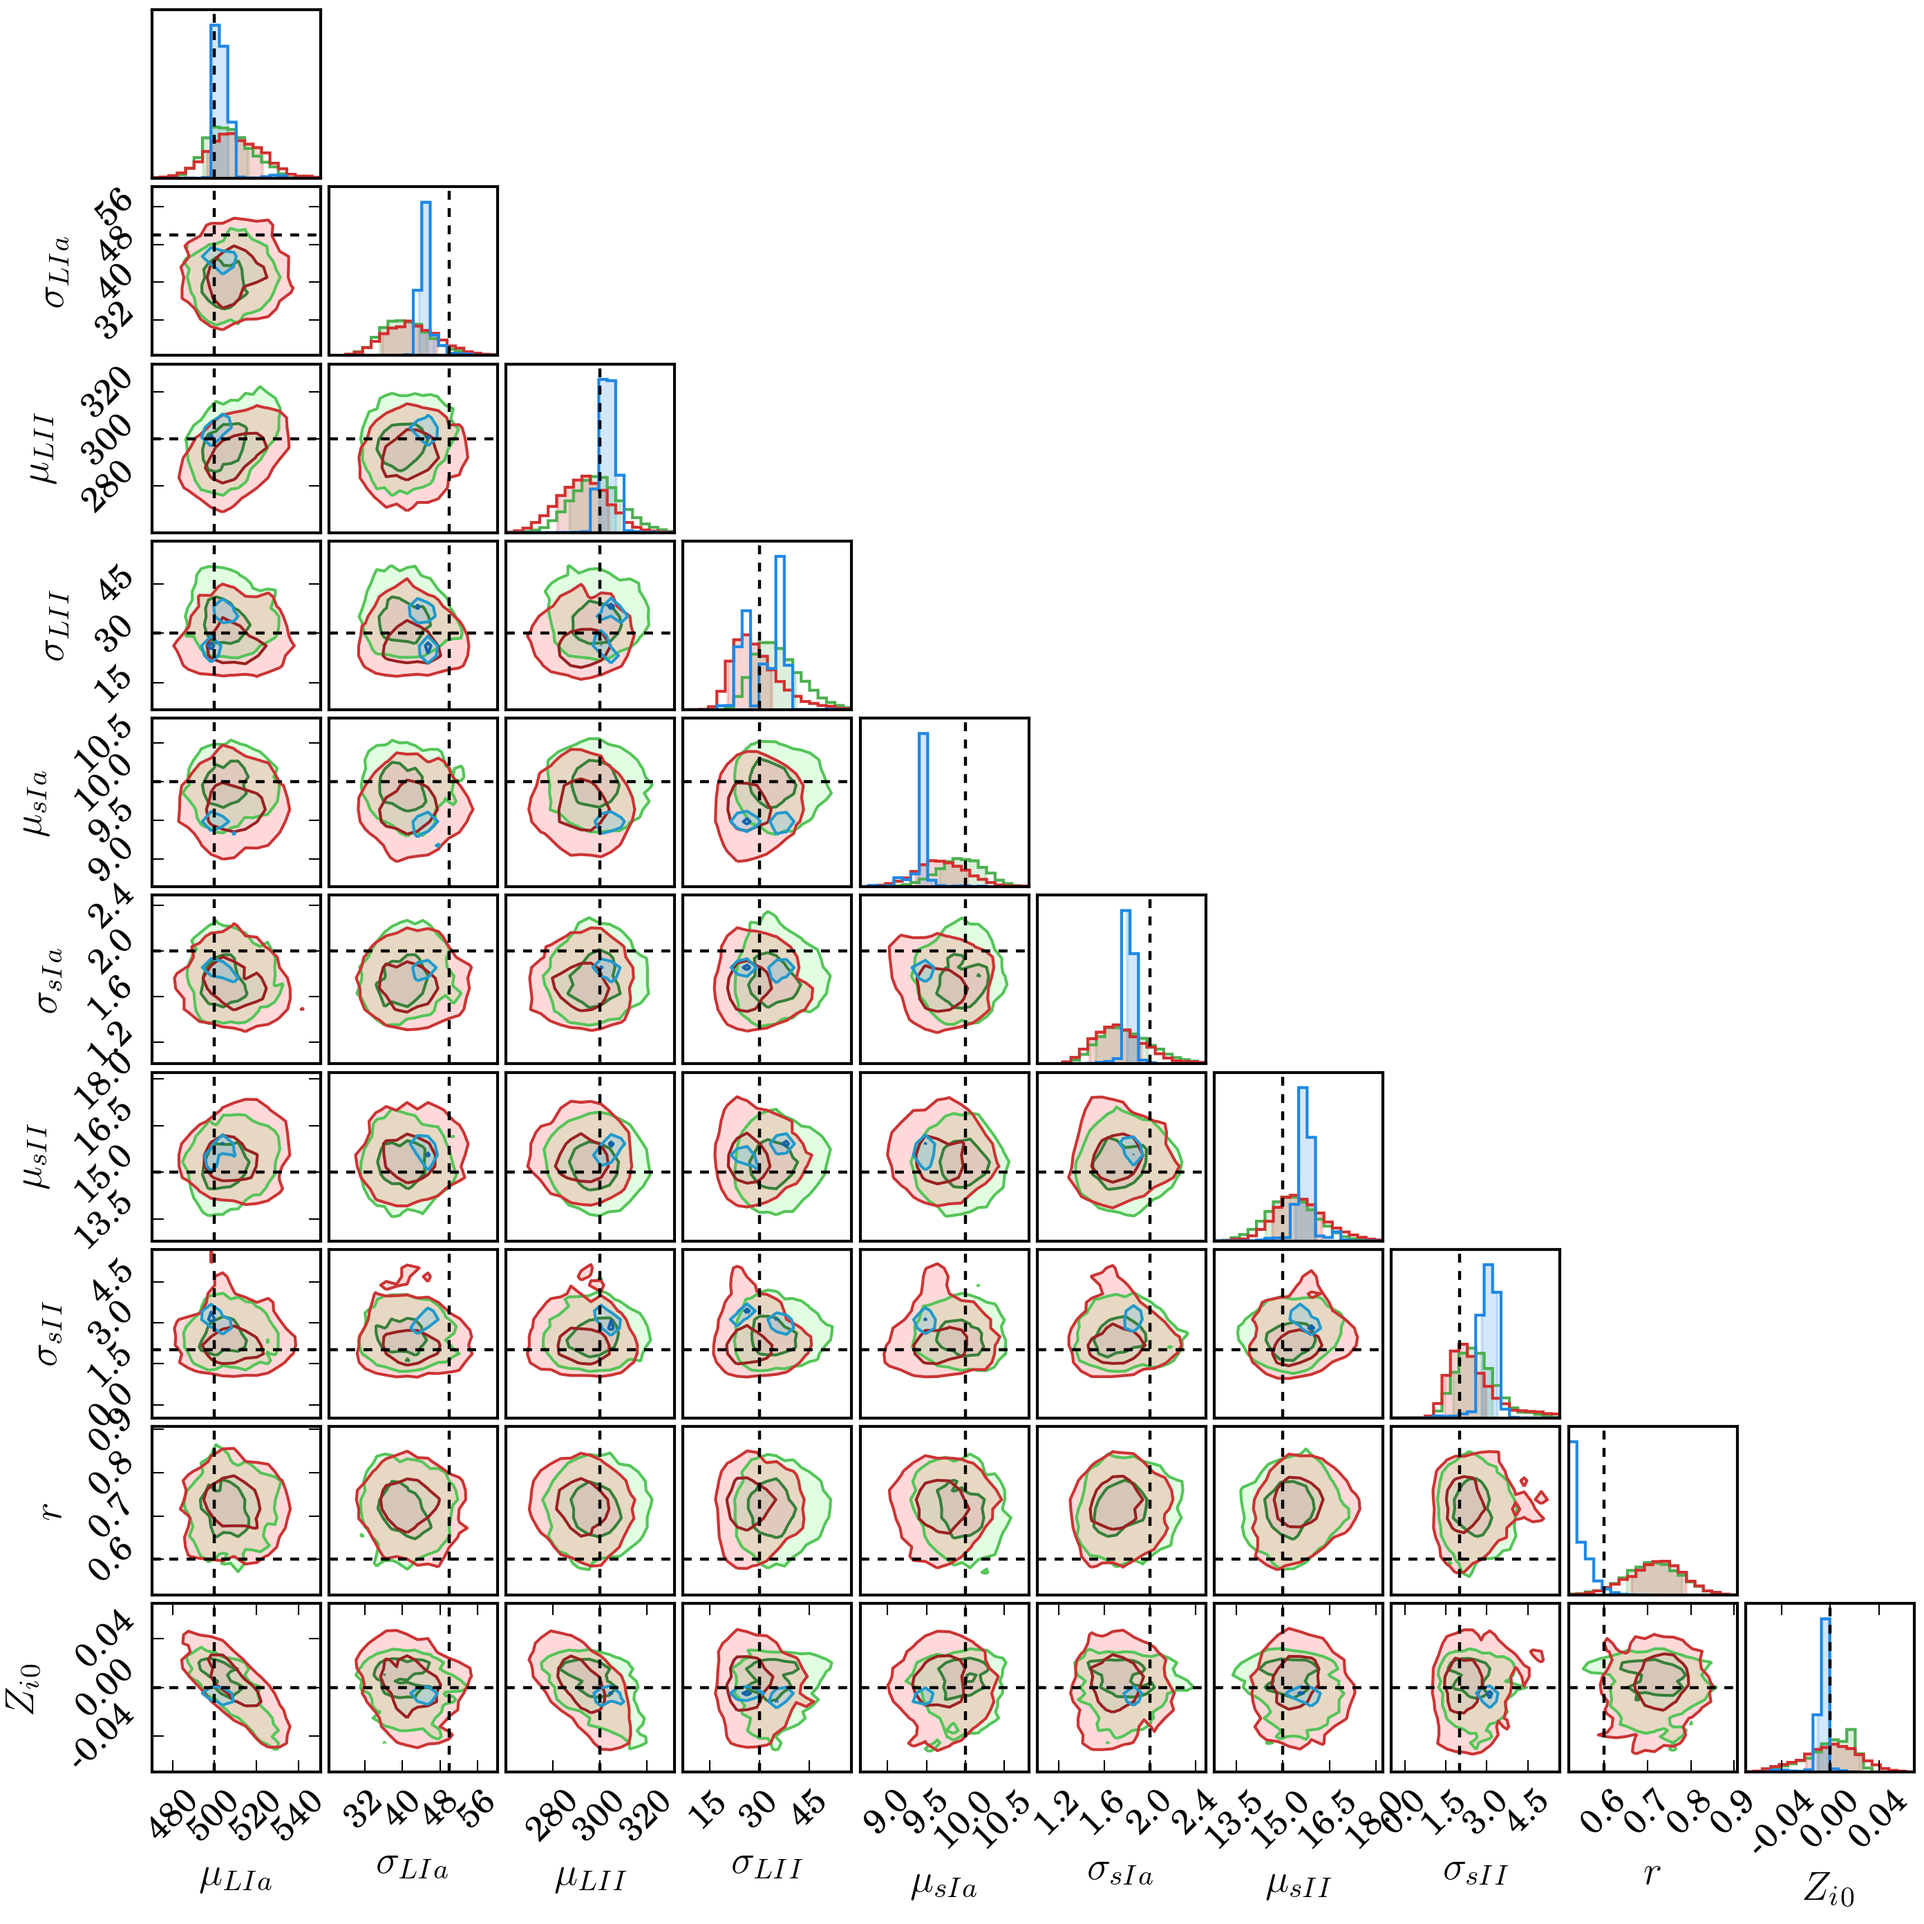
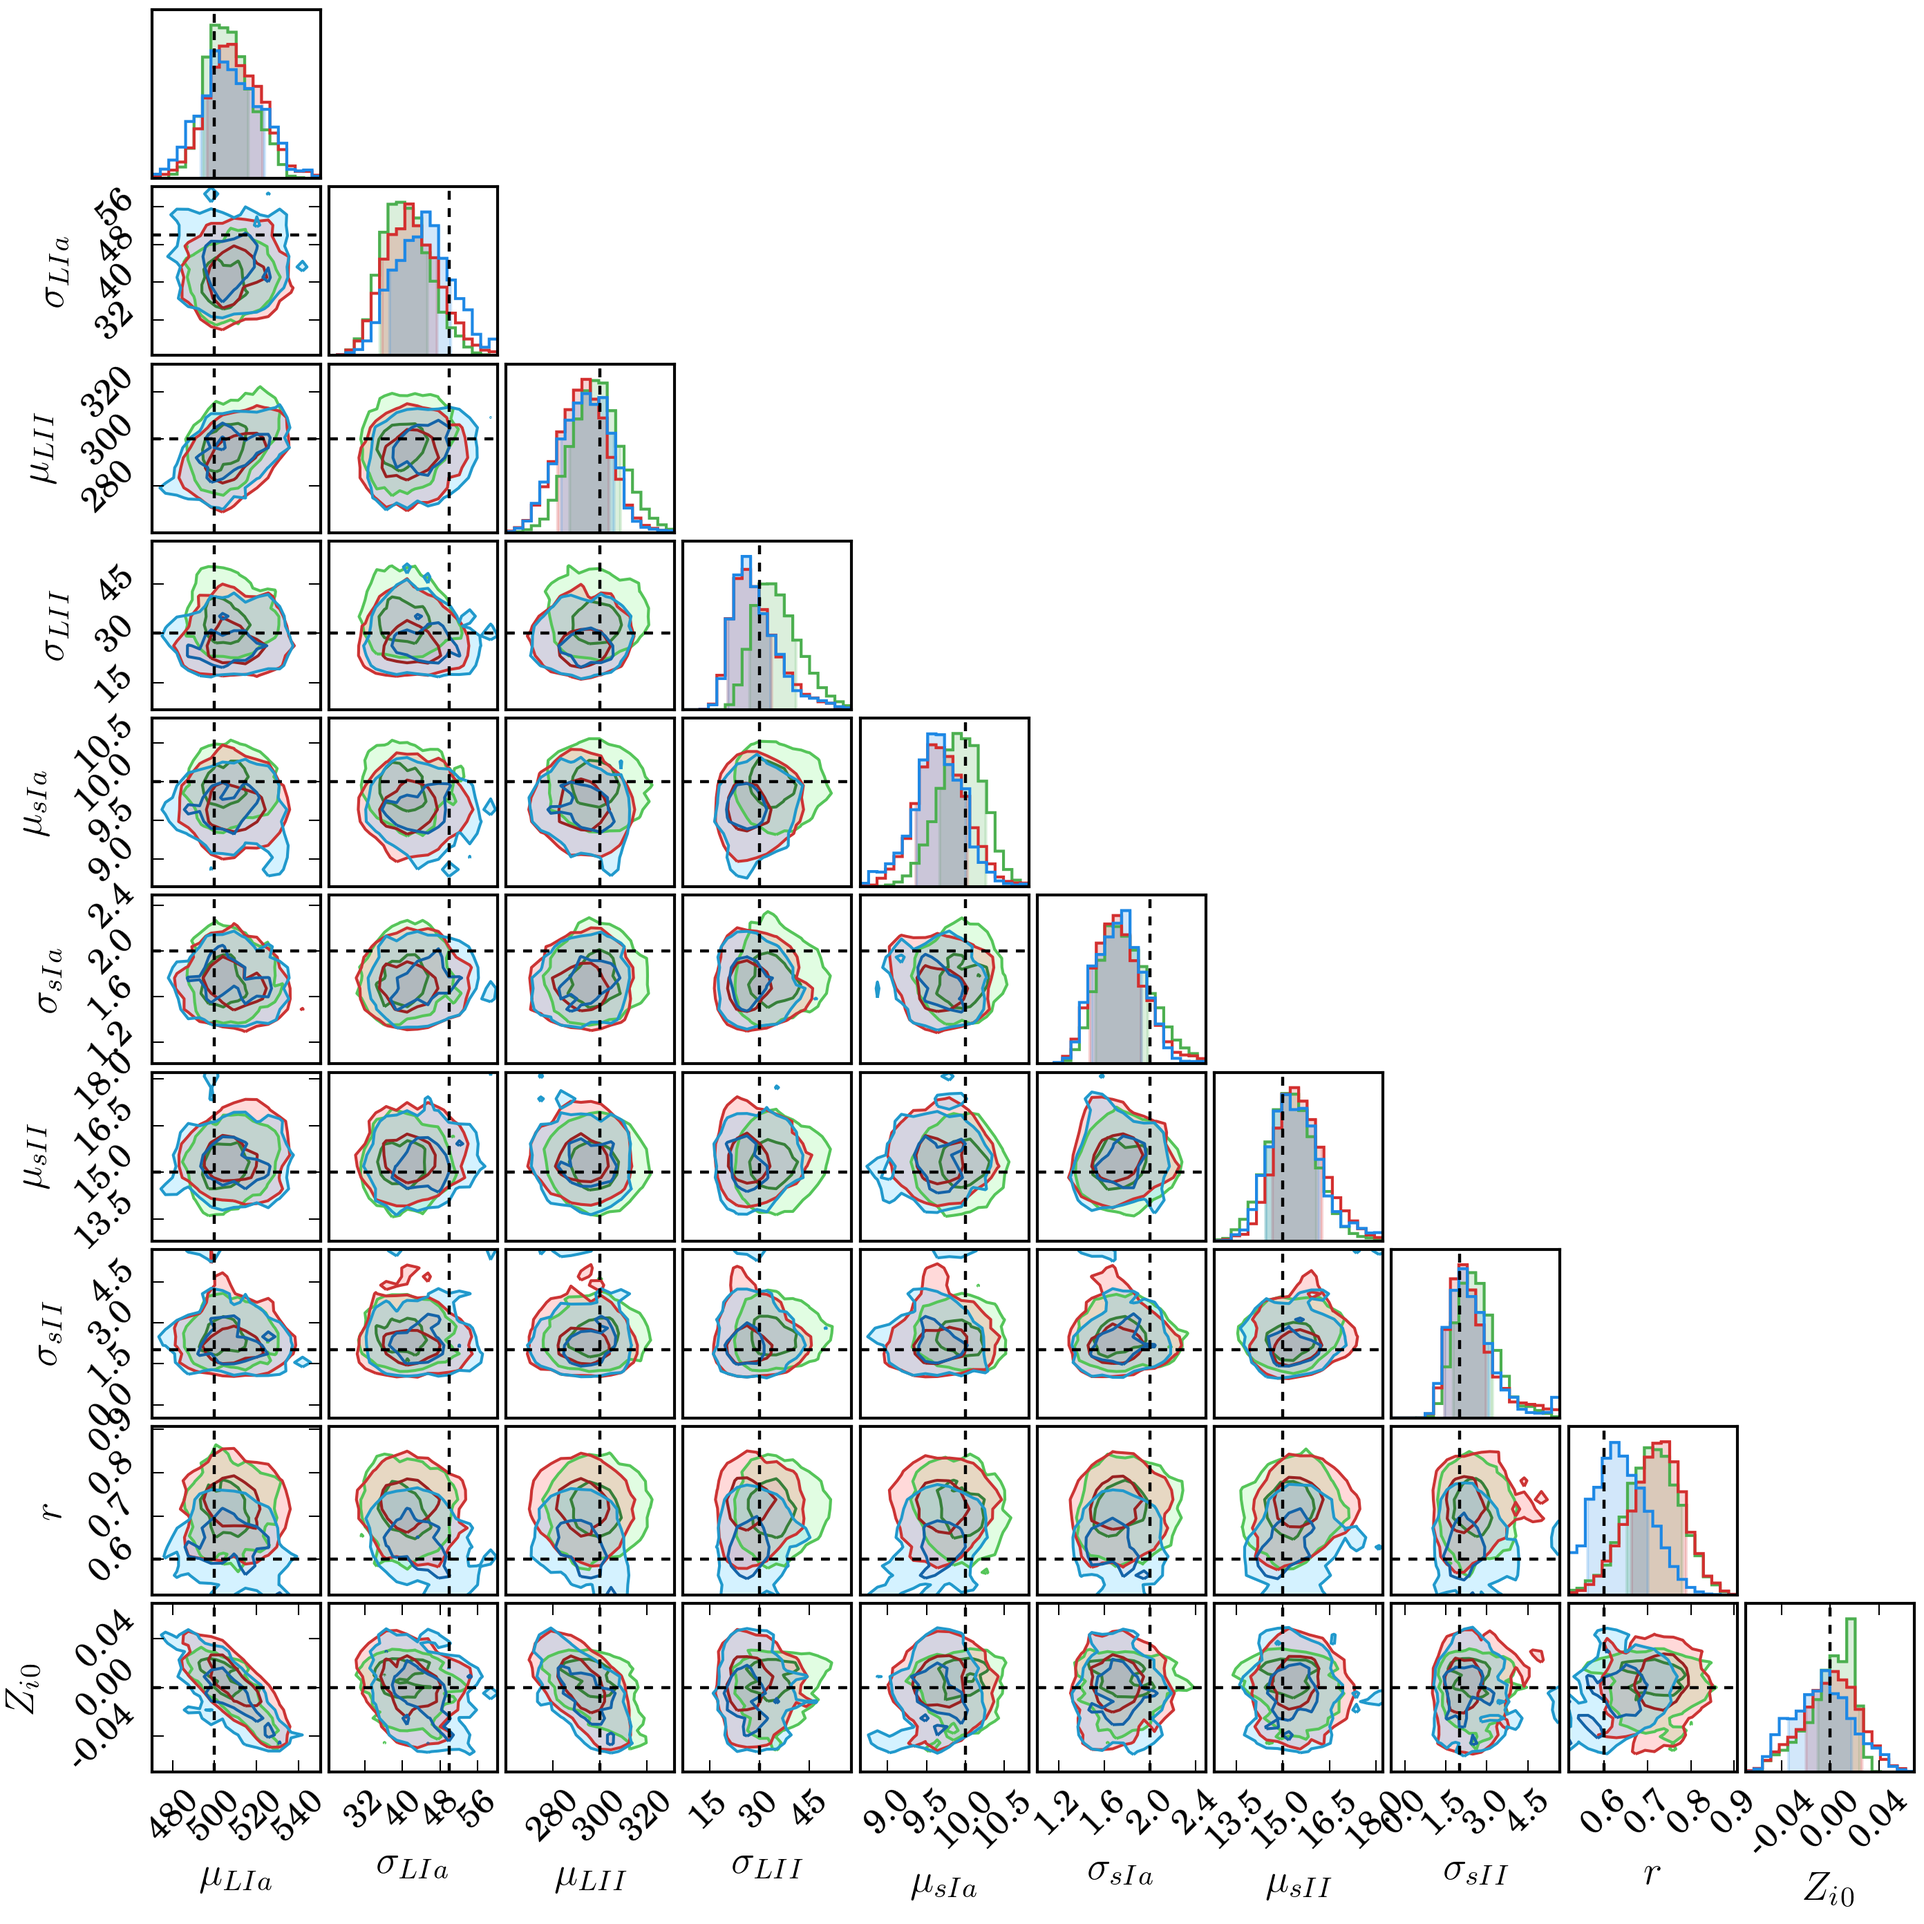
Updating weights.

diff --git a/dessn/proofs/efficiency_9/efficiency_model_9.py b/dessn/proofs/efficiency_9/efficiency_model_9.py
@@ -1,3 +1,4 @@
+from joblib import Parallel, delayed
 from dessn.framework.model import Model
 from dessn.framework.edge import Edge, EdgeTransformation
 from dessn.framework.parameter import ParameterObserved, ParameterLatent, ParameterUnderlying, \
@@ -428,7 +429,7 @@ class EfficiencyModelUncorrected(Model):
         self.finalise()
 
 
-def get_weights(mul, mul2, sigmal, sigmal2, mus, mus2, sigmas, sigmas2, rate, z0, z1, threshold, n=3e4):
+def get_weights(mul, sigmal, mul2, sigmal2, mus, sigmas, mus2, sigmas2, rate, z0, z1, threshold, n=1e4):
     n = int(n)
     type = np.random.random(size=n) < rate
     ls1 = np.random.normal(loc=mul, scale=sigmal, size=n)
@@ -563,6 +564,10 @@ def plot_data(dir_name):
     ax.legend(loc=3, fontsize=12)
     fig.savefig(os.path.abspath(dir_name + "/output/data.png"), bbox_inces="tight", dpi=300)
 
+def get_weight_from_row(row, threshold):
+    return get_weights(row[0], row[1], row[2], row[3], row[4], row[5], row[6],
+                row[7], row[8], row[9], row[10], threshold)
+
 if __name__ == "__main__":
 
     logging.basicConfig(level=logging.DEBUG)
@@ -598,11 +603,7 @@ if __name__ == "__main__":
         biased_chain = c.chains[-1]
         filename = dir_name + "/output/weights.txt"
         if not os.path.exists(filename):
-            weights = []
-            for i, row in enumerate(biased_chain):
-                weights.append(get_weights(row[0], row[1], row[2], row[3], row[4], row[5], row[6],
-                                           row[7], row[8], row[9], row[10], threshold))
-                print(100.0 * i / biased_chain.shape[0])
+            weights = Parallel(n_jobs=4, verbose=100, batch_size=100)(delayed(get_weight_from_row)(row, threshold) for row in biased_chain)
             weights = np.array(weights)
             np.savetxt(filename, weights)
         else:

diff --git a/dessn/proofs/efficiency_9/__init__.py b/dessn/proofs/efficiency_9/__init__.py
@@ -43,4 +43,12 @@ include integration over type.
 .. figure::     ../dessn/proofs/efficiency_9/output/surfaces.png
     :width:     100%
     :align:     center
+
+    The normal "good", uncorrected, and corrected surfaces in green, red and blue
+    respectively. Odd results are given for the rate parameter, as the data size
+    has been kept small (and now has to describe two populations). A much higher
+    number of samples is needed to produce high quality surfaces, however the
+    status of these surfaces as examples does not warrant burning that many CPU-hours.
+
+
 """
